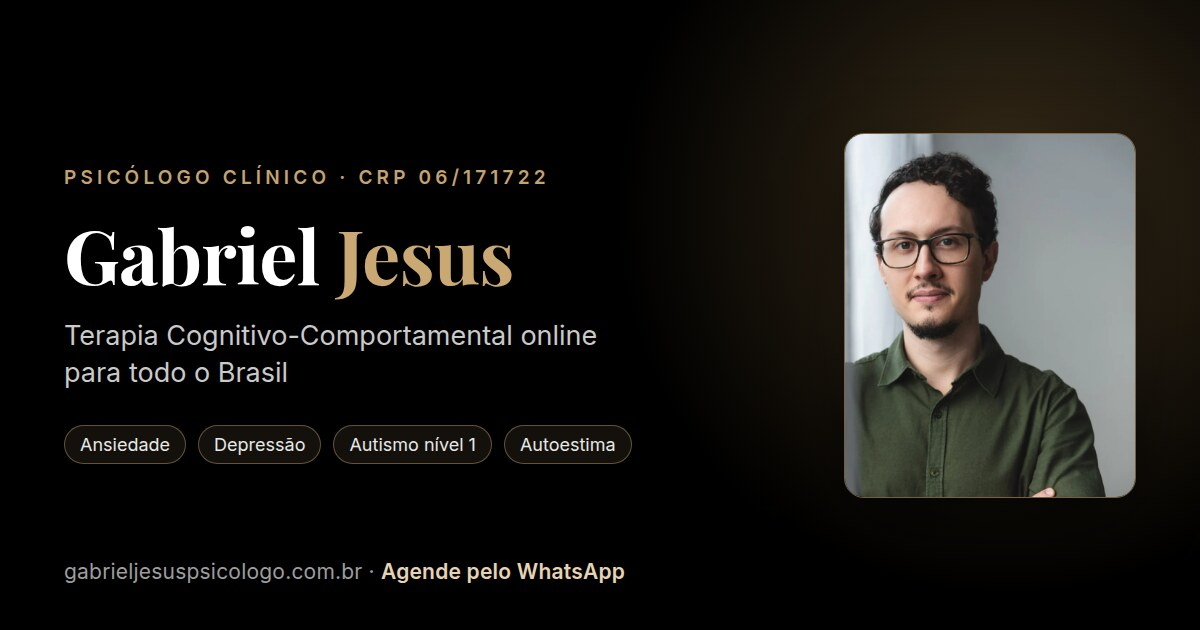
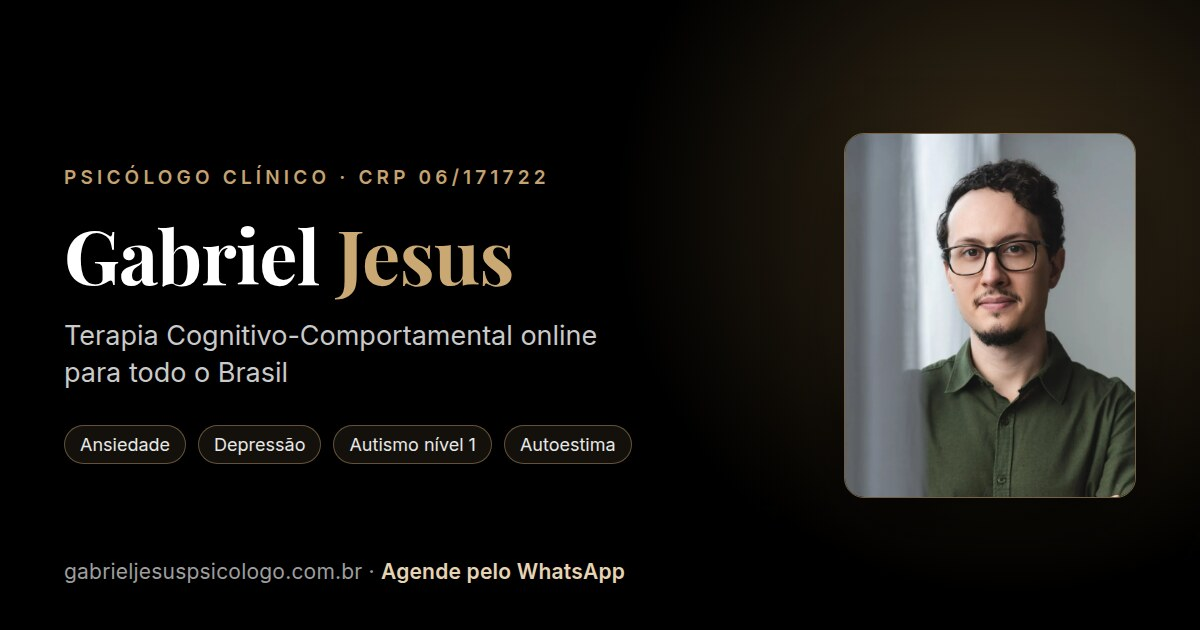
Hero: retrato centralizado na sua coluna
- A foto estava colada na borda direita da coluna, empurrando o rosto para o
  canto; agora centraliza (justify-center também no desktop) e o card ganha um
  pouco mais de largura (max-w-[30rem]), então o retrato respira e o rosto fica
  no eixo da coluna.
- Novo recorte em gabriel-perfil.webp aproximando o enquadramento, com o rosto
  mais perto do centro horizontal da imagem.
- og-image.jpg refeita com o recorte novo.

Changed region(s): [[0.6783, 0.2111, 0.9558, 0.8143]]

diff --git a/inertia/components/HeroSection.tsx b/inertia/components/HeroSection.tsx
@@ -94,10 +94,12 @@ export function HeroSection() {
           </div>
 
           {/* Foto solta (sem recorte circular): mantém o enquadramento do
-              retrato inteiro. No mobile vem antes do texto, menor, para o
-              rosto aparecer na primeira tela. */}
-          <div className="flex justify-center lg:justify-end order-1 lg:order-2">
-            <div className="relative w-52 sm:w-64 lg:w-full lg:max-w-sm">
+              retrato inteiro. No desktop o retrato fica centralizado na sua
+              coluna (e não colado na borda direita), para a composição respirar.
+              No mobile vem antes do texto, menor, para o rosto aparecer na
+              primeira tela. */}
+          <div className="flex justify-center order-1 lg:order-2">
+            <div className="relative w-52 sm:w-64 lg:w-full lg:max-w-[30rem]">
               <div
                 aria-hidden
                 className="absolute -inset-4 rounded-[2rem] bg-primary/25 blur-3xl"
